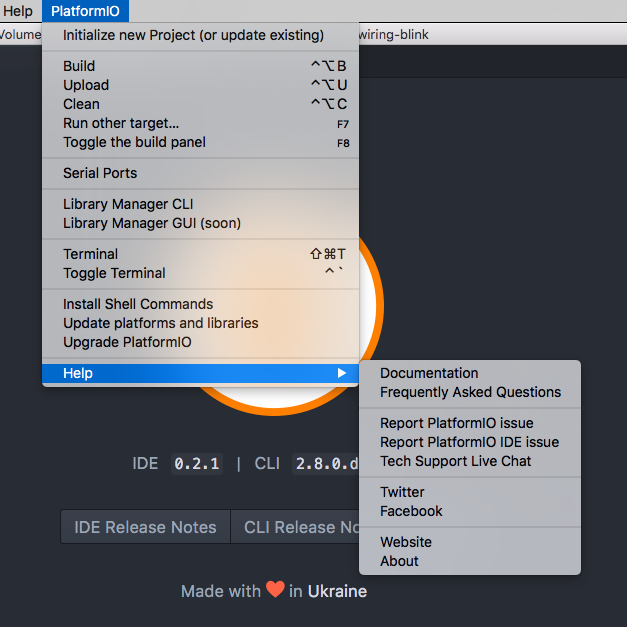
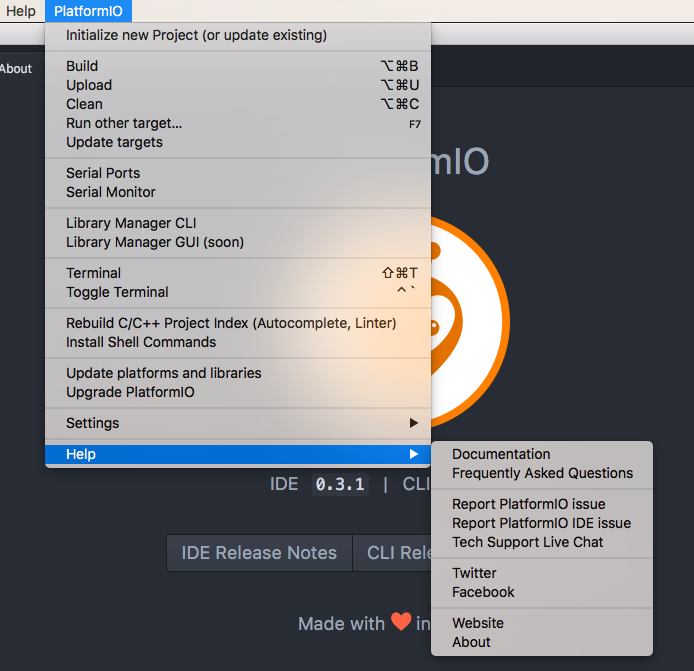
Update docs for PlatformIO IDE

diff --git a/docs/ide/atom.rst b/docs/ide/atom.rst
@@ -34,40 +34,28 @@ Atom is a source code editor that's modern, approachable,
 yet hackable to the core—a tool you can customize to do anything but also use
 productively without ever touching a config file.
 
-.. warning::
-
-    PlatformIO IDE is **in beta testing**. Please report all issues to
-    `PlatformIO IDE issues tracker <https://github.com/platformio/platformio-atom-ide/issues>`_.
 
 .. contents::
-
-Requirements
-------------
-
-The only one requirement is `Python Interpreter <https://www.python.org>`_.
-PlatformIO is written in Python and works on Mac OS X, Linux, Windows OS and
-ARM-based credit-card sized computers (Raspberry Pi, BeagleBone, CubieBoard).
 
 Installation
 ------------
 
-:Python:
+1. Download and install Atom source code editor
 
-    Python is installed on Mac OS X and Linux OS by default. The only **Windows Users**
-    should install it manually. Please `Download the latest Python 2.7.x <https://www.python.org/downloads/>`_
-    and install it. **DON'T FORGET** to select ``Add python.exe to Path`` feature on the
-    "Customize" stage, otherwise ``python`` command will not be available.
+    - `Download for Mac <https://atom.io/download/mac>`_
+    - `Download for Windows <https://atom.io/download/windows>`_
+    - `Download .deb <https://atom.io/download/deb>`_
+    - `Download .rpm <https://atom.io/download/rpm>`_
+    - `Other platforms <https://github.com/atom/atom/releases/latest>`_
 
-:Atom: Download and install `Atom <https://atom.io>`_ source code editor
 
-:PlatformIO IDE:
+2. Open Atom Package Manager and search for `platformio-ide <https://atom.io/packages/platformio-ide>`_
 
-    Install `platformio-ide <https://atom.io/packages/platformio-ide>`_ package
-    using:
+    - **Mac OS X**: ``Menu: Atom > Preferences > Install``
+    - **Windows**: ``Menu: File > Settings > Install``
+    - **Linux**: ``Menu: Edit > Preferences > Install``
 
-        - **Mac OS X**: ``Menu: Atom > Preferences > Install``
-        - **Windows**: ``Menu: File > Settings > Install``
-        - **Linux**: ``Menu: Edit > Preferences > Install``
+.. image:: ../_static/ide-atom-platformio-install.png
 
 User Guide
 ----------
@@ -83,8 +71,32 @@ new menu item named ``Menu: PlatformIO`` (after ``Menu: Help`` item).
 
 .. image:: ../_static/ide-atom-platformio-menu-item.png
 
-Building / Uploading / etc.
-~~~~~~~~~~~~~~~~~~~~~~~~~~~
+PlatformIO Toolbar
+~~~~~~~~~~~~~~~~~~
+
+
+PlatformIO IDE Toolbar contains the quick access button to the popular commands.
+Each button contains hint (delay mouse on it).
+
+.. image:: ../_static/ide-atom-platformio-toolbar.png
+
+* PlatformIO: Build
+* PlatformIO: Clean
+* Toggle build panel
+* |
+* New File
+* Add/Open Project Folder...
+* Find in Project...
+* |
+* Terminal
+* Serial Ports
+* Serial Monitor
+* |
+* Settings
+* PlatformIO Documentation
+
+Building / Uploading / Targets
+~~~~~~~~~~~~~~~~~~~~~~~~~~~~~~
 
 * ``cmd-alt-b`` / ``ctrl-alt-b`` / ``f9`` builds project without auto-uploading.
 * ``cmd-alt-u`` / ``ctrl-alt-u`` builds and uploads (if no errors).
@@ -113,39 +125,35 @@ Terminal and run ``clang --version``. If ``clang`` is not installed, then instal
 - **Other Systems**: Download the latest `Clang for the other systems <http://llvm.org/releases/download.html>`_.
 
 .. warning::
-    The libraries which are added, installed or used in the project
-    after initializing process will not be reflected in code completion. To fix
-    it you need to reinitialize project using ``Menu: PlatformIO > Initialize new Project (or update existing)``.
+    The libraries which are added/installed after initializing process will
+    not be reflected in code linter. You need ``Menu: PlatformIO >
+    Rebuild C/C++ Project Index (Autocomplete, Linter)``.
 
 Code linter
 ~~~~~~~~~~~
 
-PlatformIO IDE uses PlatformIO's pre-built GCC toolchains for code linting. You
-can customize it in ``.gcc-flags.json`` which will be generated for the selected
-board in the project directory using
+PlatformIO IDE uses PlatformIO's pre-built GCC toolchains for code linting. The
+settings for Linter are located in ``.gcc-flags.json``. This file will be
+automatically created and preconfigured when you initialize project using
 ``Menu: PlatformIO > Initialize new Project (or update existing)``.
 
 .. warning::
-    The libraries which are added, installed or used in the project
-    after initializing process will not be reflected in code linter. To fix
-    it you need to reinitialize project using ``Menu: PlatformIO > Initialize new Project (or update existing)``.
+    The libraries which are added/installed after initializing process will
+    not be reflected in code linter. You need ``Menu: PlatformIO >
+    Rebuild C/C++ Project Index (Autocomplete, Linter)``.
+
+
+.. error::
+    If you have error like ``linter-gcc: Executable not found`` and
+    ``"***/.platformio/packages/toolchain-atmelavr/bin/avr-g++" not found``
+    please ``Menu: PlatformIO > Initialize new Project (or update existing)``.
 
 Install Shell Commands
 ~~~~~~~~~~~~~~~~~~~~~~
 
 To install ``platformio`` and ``pio`` shell commands please use ``Menu:
 PlatformIO > Install Shell Commands``. It will allow you to call PlatformIO from
-other process, terminals and etc.
-
-Serial Monitor
-~~~~~~~~~~~~~~
-
-Serial Monitor was temporary disabled in PlatformIO IDE 0.2.1. See
-`issue #17 <https://github.com/platformio/platformio-atom-ide/issues/17>`_.
-
-Temporary solution is to ``Menu: PlatformIO > Install Shell Commands`` and use
-:ref:`cmd_serialports_monitor` from system Terminal application (not built-in in
-PlatformIO IDE).
+other process, terminal and etc.
 
 Known issues
 ~~~~~~~~~~~~
